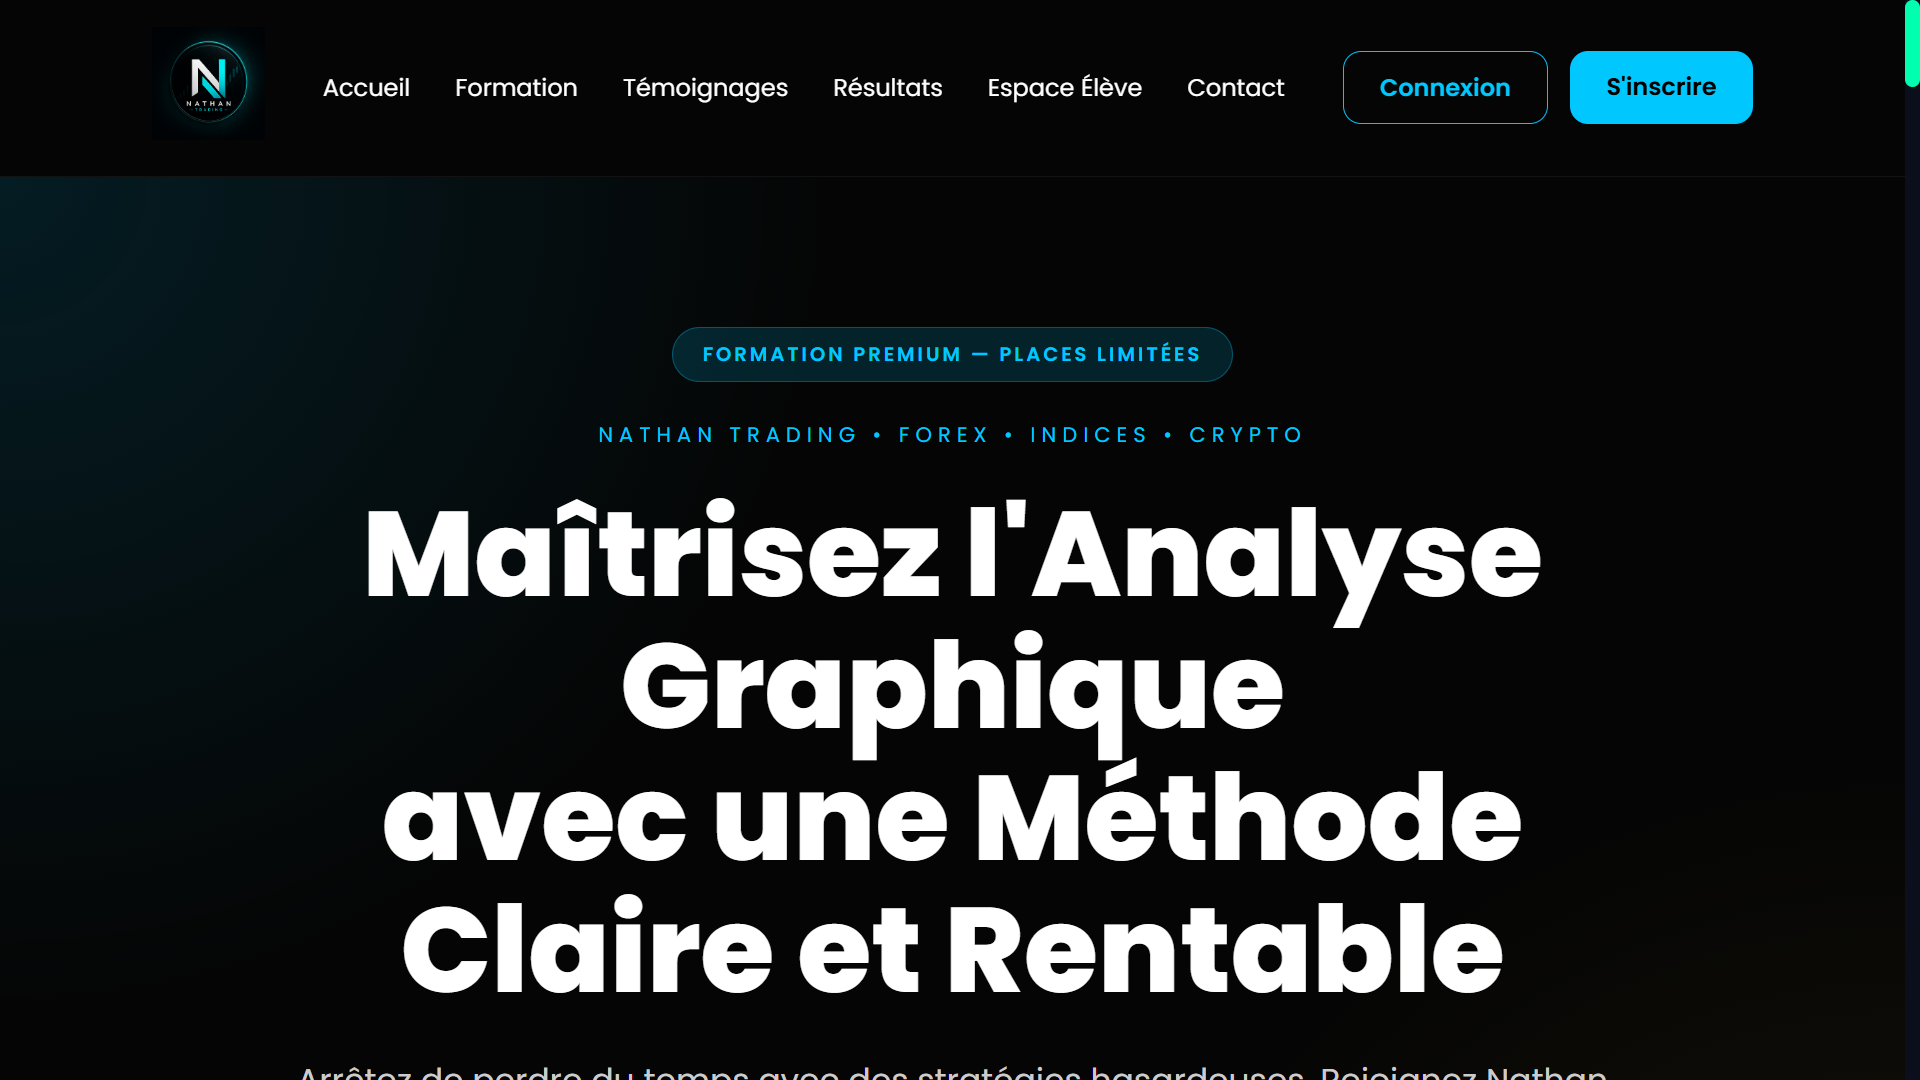
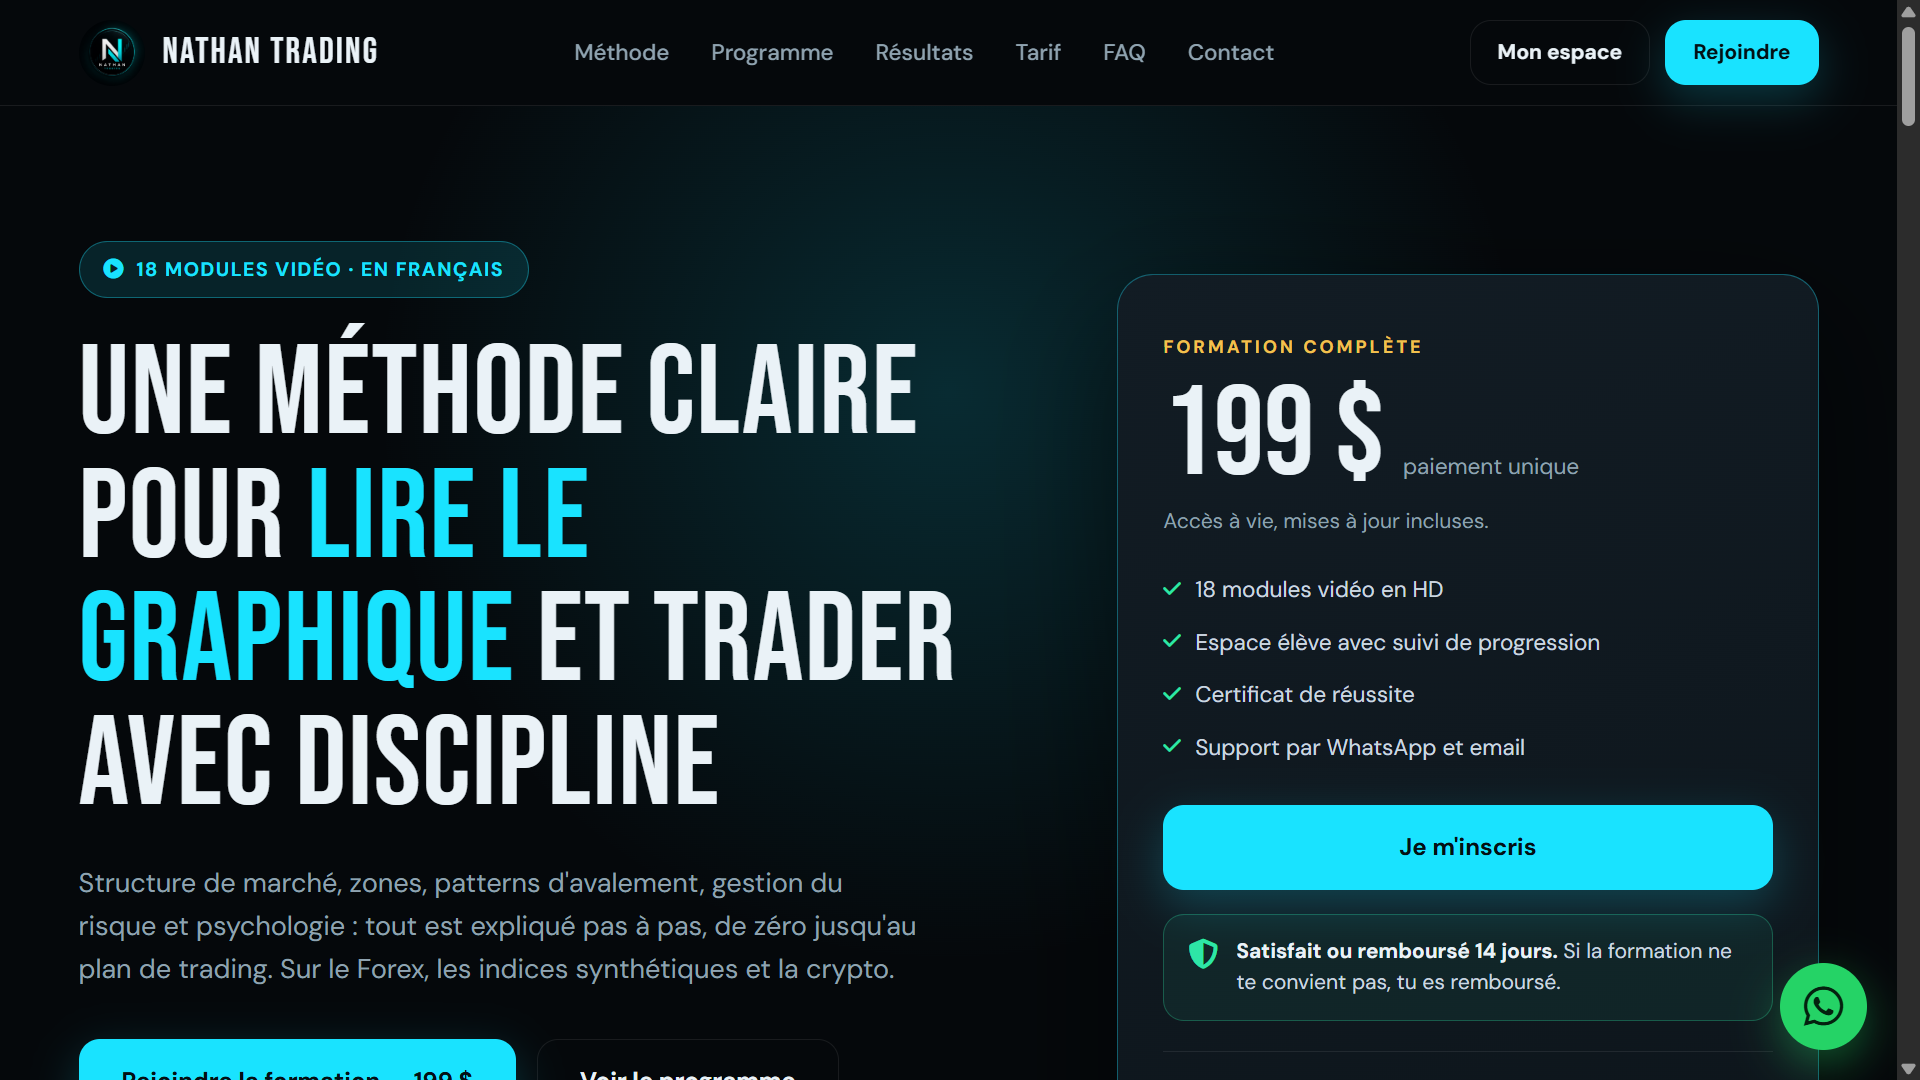
Nouvelle photo de profil et nouvelle capture de nathan-trading.com
Claude-Session: https://claude.ai/code/session_01BgJ4P5sYwq5Zt3KHPqDKdc

diff --git a/index.html b/index.html
@@ -265,7 +265,7 @@
   /* About */
   .about { display: grid; grid-template-columns: 260px minmax(0, 1fr); gap: 56px; align-items: start; }
   .about-photo { border-radius: 16px; overflow: hidden; aspect-ratio: 4 / 5; border: 1px solid var(--line); }
-  .about-photo img { width: 100%; height: 100%; object-fit: cover; }
+  .about-photo img { width: 100%; height: 100%; object-fit: cover; object-position: center top; }
   .about p { color: var(--ink-2); max-width: 36em; margin-top: 16px; }
   .facts { margin-top: 28px; display: grid; grid-template-columns: repeat(2, minmax(0, 1fr)); gap: 18px 32px; max-width: 460px; }
   .facts dt { font-size: 13.5px; color: var(--ink-2); }
@@ -501,7 +501,7 @@
 
   <section class="block" id="apropos">
     <div class="wrap about">
-      <div class="about-photo"><img src="images/photo.jpg" alt="Portrait de Nathan Badumisa" width="500" height="637" loading="lazy"></div>
+      <div class="about-photo"><img src="images/photo.jpg" alt="Portrait de Nathan Badumisa" width="896" height="1067" loading="lazy"></div>
       <div>
         <h2 class="block-title">À propos</h2>
         <p>Je suis Nathan, développeur web à Kinshasa. Je conçois et je construis des sites internet, des sites vitrines, des plateformes de formation, des logiciels de gestion et de comptabilité, et des outils de trading, de la première maquette à la mise en ligne.</p>
